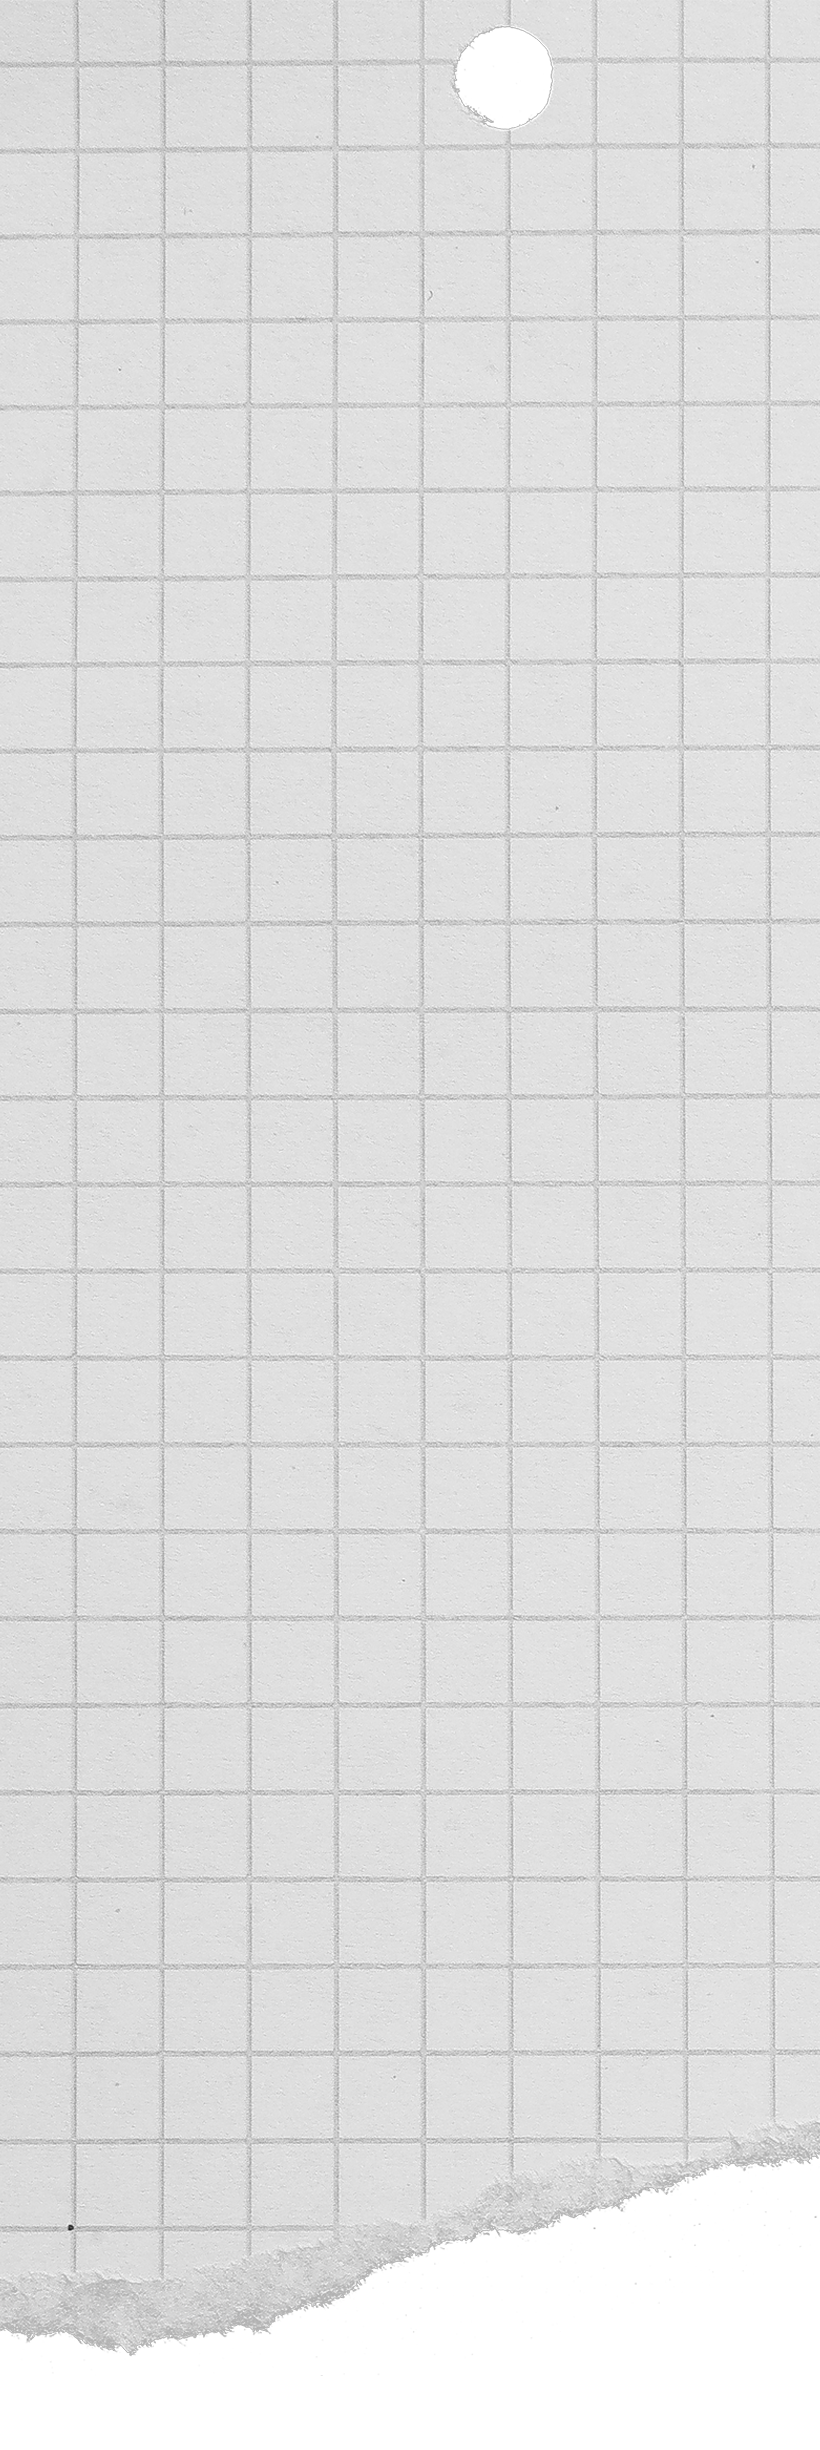
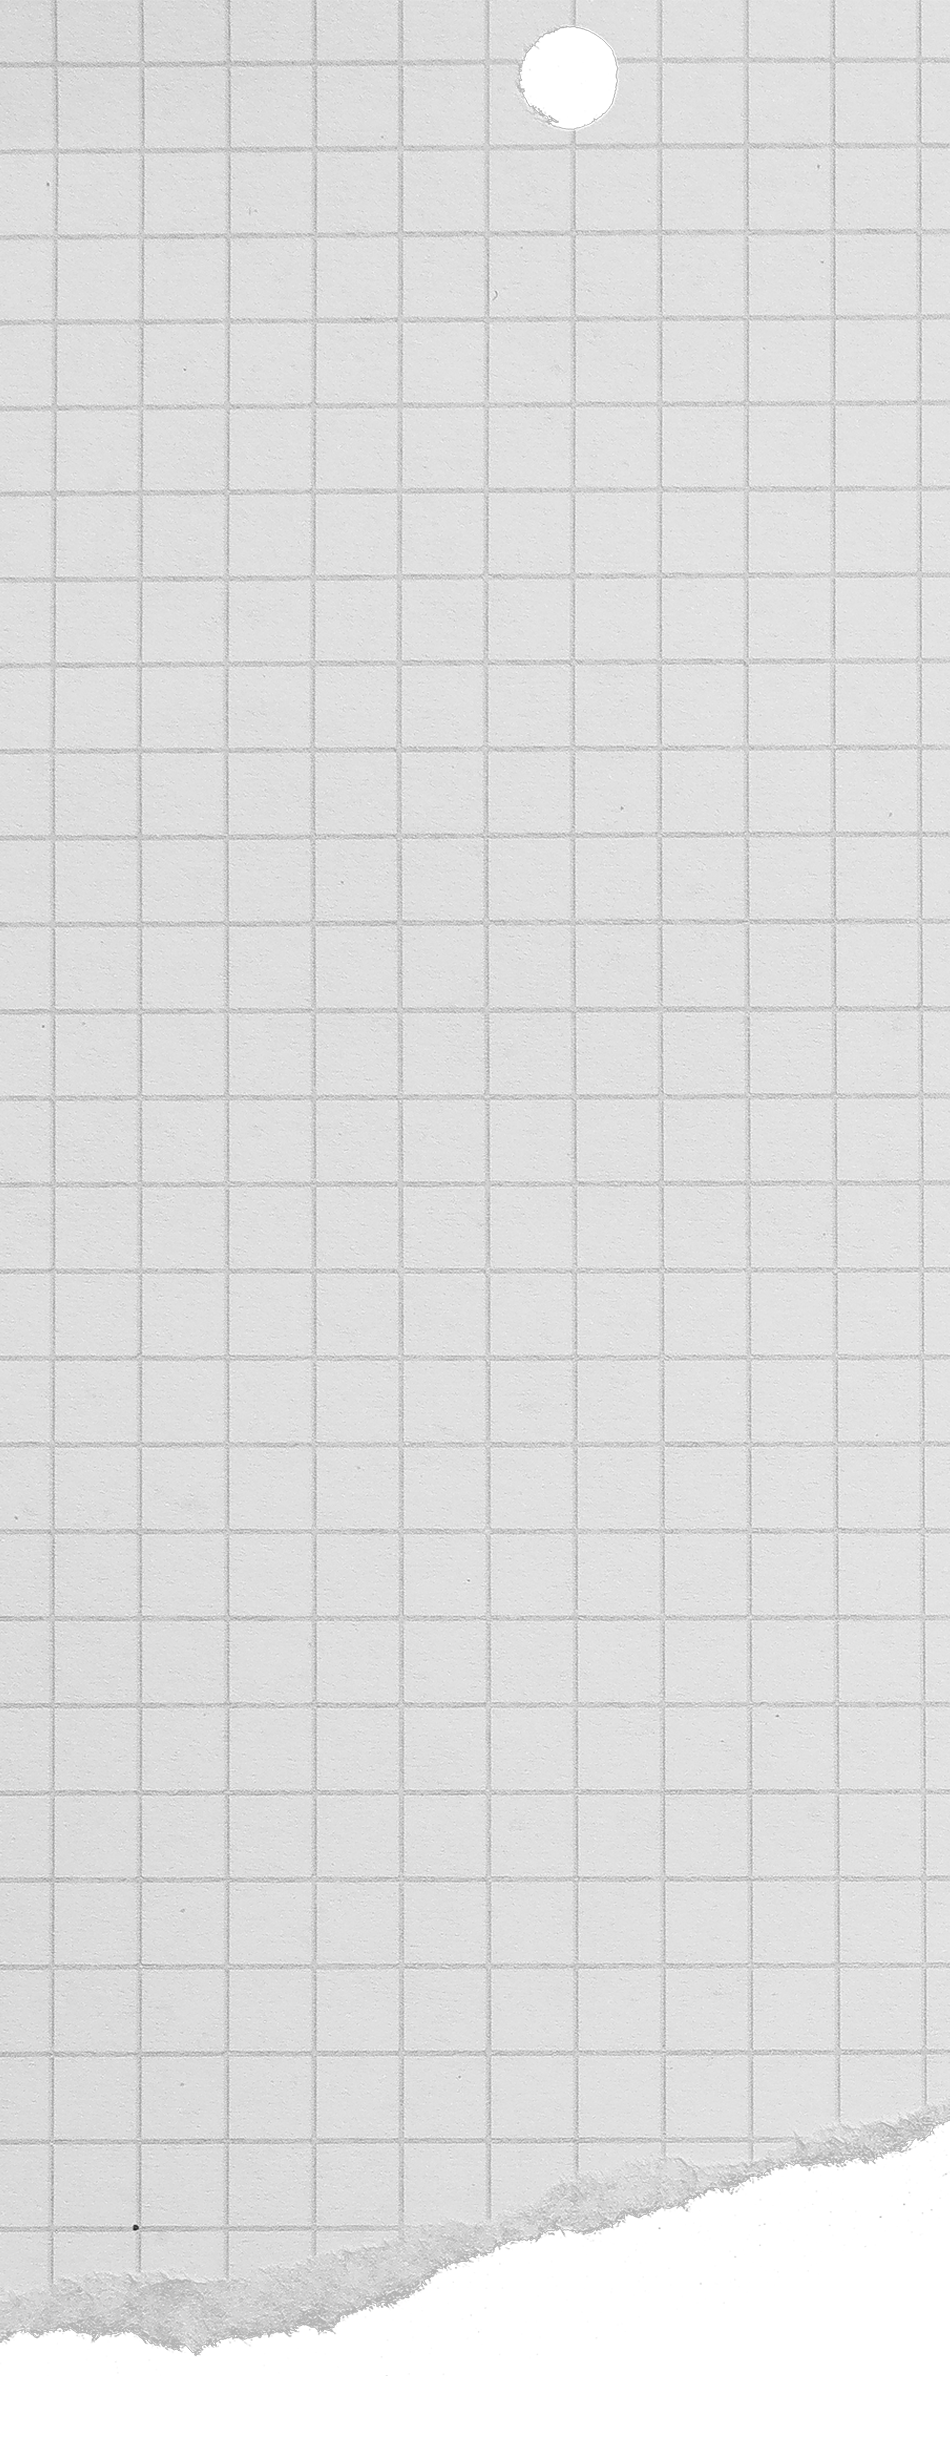
Update detail page layout; adjust order and margin for back and next buttons

diff --git a/css/sections/project-detail.css b/css/sections/project-detail.css
@@ -408,7 +408,8 @@ html[data-project="da-bubble"] .detail__next {
   }
 
   .detail__back {
-    margin-top: 4rem;
+    order: 1;
+    margin-top: 2.5rem;
     margin-left: 0;
   }
 
@@ -445,6 +446,7 @@ html[data-project="da-bubble"] .detail__next {
   }
 
   .detail__next {
+    order: 2;
     margin-right: 0;
   }
 
